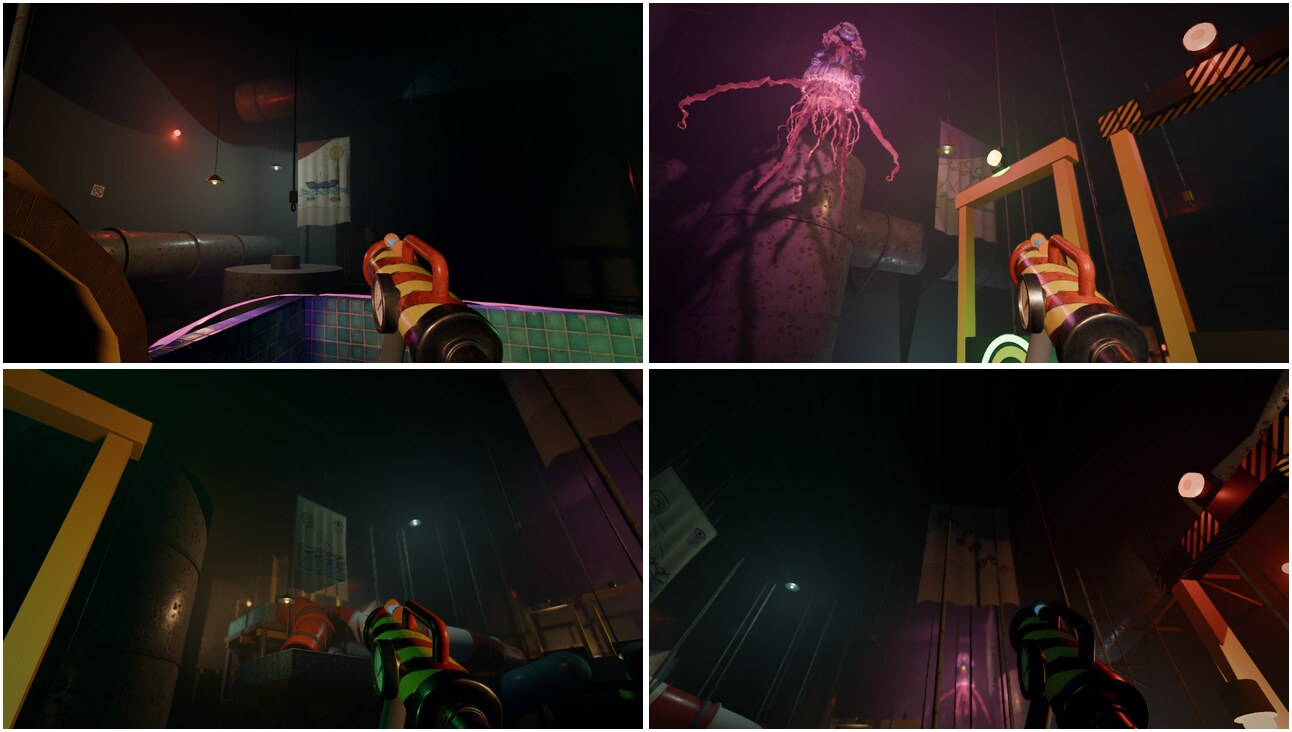
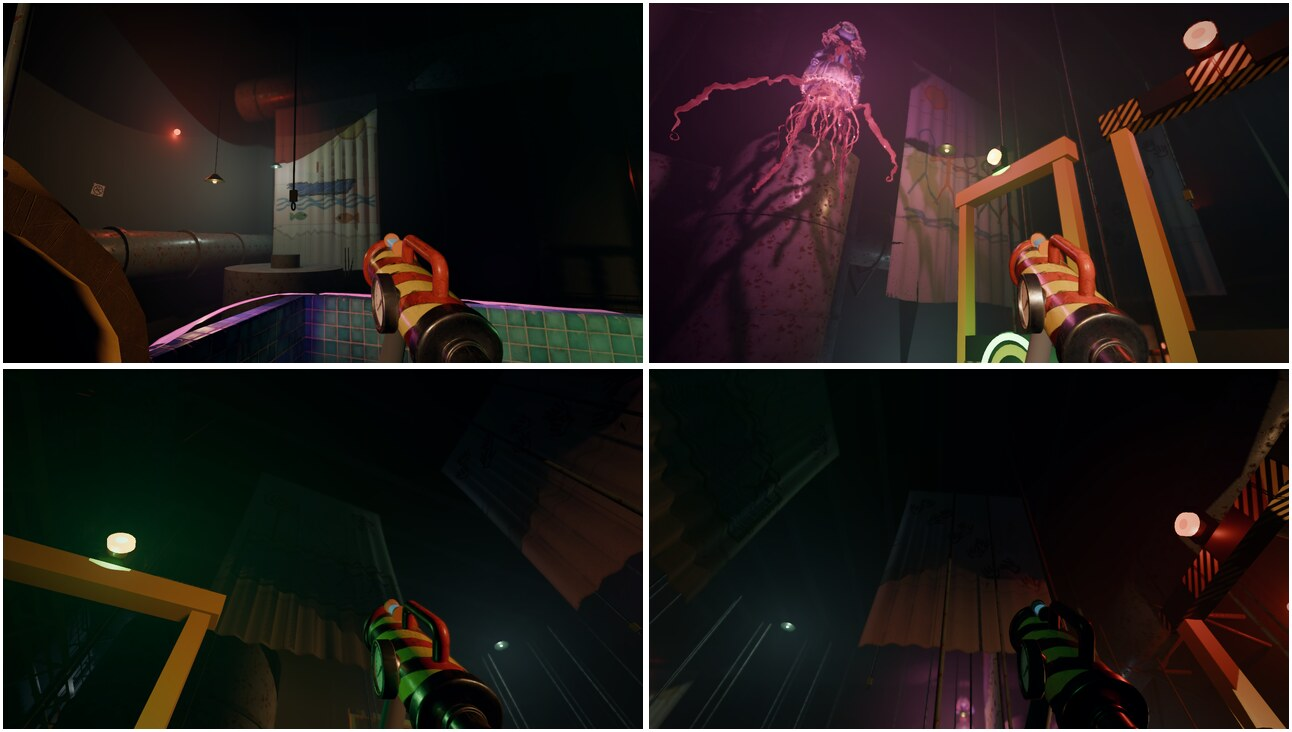
Collaudo stendardi variante A: scatti dalle vasche e da vicino (corde dalle travi, terza corda, cuciture, mollette)
Claude-Session: https://claude.ai/code/session_01CKPshjKrddtekB7nZK4rGD

diff --git a/docs/tecnico/posizionamento/rapporto.md b/docs/tecnico/posizionamento/rapporto.md
@@ -1,6 +1,6 @@
 # Controllo di posizionamento
 
-Scritto da `godot/tests/controllo_posizionamento.gd` il 2026-11-06 14:20:17. Problemi: **sospeso** (niente a meno di 5 cm: né sotto, né una parete, un soffitto o un altro oggetto a cui sia attaccato), **ingombro** (qualcosa di visibile, con o senza collisione, a meno di 10 cm dall'asse del giocatore, fra 0.35 e 2.00 m sopra il pavimento), **compenetrato** e **coperto** (Polaroid, pulsanti, porte, cancelli, oggetti da raccogliere), **compenetra** (due oggetti di scena l'uno dentro l'altro), **estremita_libera** (un tubo o un cavo con un capo che non tocca niente). Come si usa: `LEGGIMI.md` qui accanto.
+Scritto da `godot/tests/controllo_posizionamento.gd` il 2026-11-06 15:40:03. Problemi: **sospeso** (niente a meno di 5 cm: né sotto, né una parete, un soffitto o un altro oggetto a cui sia attaccato), **ingombro** (qualcosa di visibile, con o senza collisione, a meno di 10 cm dall'asse del giocatore, fra 0.35 e 2.00 m sopra il pavimento), **compenetrato** e **coperto** (Polaroid, pulsanti, porte, cancelli, oggetti da raccogliere), **compenetra** (due oggetti di scena l'uno dentro l'altro), **estremita_libera** (un tubo o un cavo con un capo che non tocca niente). Come si usa: `LEGGIMI.md` qui accanto.
 
 Nuovi: 0. Già noti (in `godot/tests/posizionamento_eccezioni.json`): 64. Eccezioni non più trovate: 0.
 
@@ -28,9 +28,9 @@ Nuovi: 0. Già noti (in `godot/tests/posizionamento_eccezioni.json`): 64. Eccezi
 
 | Squadra | Problema | Nodo | Posizione | Dettaglio | Stato |
 |---|---|---|---|---|---|
-| enigmi | compenetra | `Risalita/Fiume/paratia/Mesh_0` | -38.16, -5.40, 117.17 | dentro ci passa Risalita/Fiume/@MeshInstance3D@29446, 5 cm sotto la sua superficie (per esempio in (-38.16, -5.4, 117.17), lo spigolo da (-38.2, -5.4, 117.4) a (-38.13, -5.4, 117.0)) (stato: risalita_arrivo) | voluto: il telaio della chiusa a saracinesca, di traverso alla bocca del ramo, poggia sul bordo delle due sponde e ci entra con le guide, come una paratia vera |
-| enigmi | compenetra | `Risalita/Fiume/paratia4/Mesh_0` | -55.75, -5.40, 93.60 | dentro ci passa Risalita/Fiume/@MeshInstance3D@29446, 3 cm sotto la sua superficie (per esempio in (-55.75, -5.4, 93.6), lo spigolo da (-56.0, -5.4, 93.6) a (-54.4, -5.4, 93.6)) (stato: risalita_arrivo) | voluto: il telaio della chiusa a saracinesca, di traverso alla bocca del ramo, poggia sul bordo delle due sponde e ci entra con le guide, come una paratia vera |
-| enigmi | compenetra | `Risalita/Fiume/paratia5/Mesh_0` | -33.40, -5.40, 64.75 | dentro ci passa Risalita/Fiume/@MeshInstance3D@29446, 3 cm sotto la sua superficie (per esempio in (-33.4, -5.4, 64.75), lo spigolo da (-33.4, -5.4, 65.0) a (-33.4, -5.4, 63.0)) (stato: risalita_arrivo) | voluto: il telaio della chiusa a saracinesca, di traverso alla bocca del ramo, poggia sul bordo delle due sponde e ci entra con le guide, come una paratia vera |
+| enigmi | compenetra | `Risalita/Fiume/paratia/Mesh_0` | -38.16, -5.40, 117.17 | dentro ci passa Risalita/Fiume/@MeshInstance3D@29490, 5 cm sotto la sua superficie (per esempio in (-38.16, -5.4, 117.17), lo spigolo da (-38.2, -5.4, 117.4) a (-38.13, -5.4, 117.0)) (stato: risalita_arrivo) | voluto: il telaio della chiusa a saracinesca, di traverso alla bocca del ramo, poggia sul bordo delle due sponde e ci entra con le guide, come una paratia vera |
+| enigmi | compenetra | `Risalita/Fiume/paratia4/Mesh_0` | -55.75, -5.40, 93.60 | dentro ci passa Risalita/Fiume/@MeshInstance3D@29490, 3 cm sotto la sua superficie (per esempio in (-55.75, -5.4, 93.6), lo spigolo da (-56.0, -5.4, 93.6) a (-54.4, -5.4, 93.6)) (stato: risalita_arrivo) | voluto: il telaio della chiusa a saracinesca, di traverso alla bocca del ramo, poggia sul bordo delle due sponde e ci entra con le guide, come una paratia vera |
+| enigmi | compenetra | `Risalita/Fiume/paratia5/Mesh_0` | -33.40, -5.40, 64.75 | dentro ci passa Risalita/Fiume/@MeshInstance3D@29490, 3 cm sotto la sua superficie (per esempio in (-33.4, -5.4, 64.75), lo spigolo da (-33.4, -5.4, 65.0) a (-33.4, -5.4, 63.0)) (stato: risalita_arrivo) | voluto: il telaio della chiusa a saracinesca, di traverso alla bocca del ramo, poggia sul bordo delle due sponde e ci entra con le guide, come una paratia vera |
 | enigmi | ingombro | `Risalita/ArredoCorridoioFiume/quadro_elettrico` | -5.50, -5.40, 52.50 | nello spazio di chi cammina, all'altezza della testa: a meno di 10 cm dall'asse del giocatore (20 cm sopra 1,2 m), fra 1.15 e 1.83 m sopra il pavimento (2 celle da 25 cm) (pavimento a y -5.40), senza collisione (si attraversa) | voluto: a muro (regola del coordinatore del 23 ottobre): il quadro elettrico del corridoio del fiume è avvitato al muro ovest, sporge 22 cm, fra 1,15 e 1,83 m; non pende nel passaggio; passaggio libero 1,78 m all'altezza della testa (corridoio largo 2 m, di fronte solo l'oblò a filo e le lampade sopra i 2,1 m) (ambienti-1, arredo A+C del 30 ottobre) |
 
 ### sala
@@ -49,21 +49,21 @@ Nuovi: 0. Già noti (in `godot/tests/posizionamento_eccezioni.json`): 64. Eccezi
 
 | Squadra | Problema | Nodo | Posizione | Dettaglio | Stato |
 |---|---|---|---|---|---|
-| da assegnare | compenetra | `Ostacolo_vetrina_484/corallo/Mesh_0` | -62.02, -29.16, 88.12 | il 100% dei suoi vertici è dentro Ostacolo_vetrina_484/@MeshInstance3D@137538 (stato: sottomarino_t0) | voluto: il corallo del diorama sta dentro la teca di vetro della vetrina caduta, appoggiato sulla sabbia del fondo: il vetro è una scatola chiusa e lo contiene tutto (tunnel sottomarino, 24 ottobre) |
-| da assegnare | ingombro | `Approdo/@MeshInstance3D@136825` | -62.00, -27.20, 23.00 | nello spazio di chi cammina, all'altezza del busto: a meno di 10 cm dall'asse del giocatore (20 cm sopra 1,2 m), fra 1.18 e 1.22 m sopra il pavimento (15 celle da 25 cm) (pavimento a y -27.20), con la collisione (ci si sbatte contro) (stato: sottomarino_t0) | voluto: il corrimano della scala dell'approdo, a fianco di chi sale, all'altezza della mano |
-| da assegnare | ingombro | `Approdo/PortelloPerno/@MeshInstance3D@136844` | -57.50, -27.00, 21.50 | nello spazio di chi cammina, all'altezza della testa: a meno di 10 cm dall'asse del giocatore (20 cm sopra 1,2 m), fra 1.03 e 1.57 m sopra il pavimento (3 celle da 25 cm) (pavimento a y -27.00), senza collisione (si attraversa) (stato: sottomarino_t0) | voluto: il battente del portello aperto dentro la camera stagna (è la porta stessa): il giocatore entra e lo chiude col volantino, poi la fine (24 ottobre, scelta 11A) |
-| da assegnare | ingombro | `Galleria_205/@MeshInstance3D@137442` | -0.50, -30.00, 65.25 | nello spazio di chi cammina, all'altezza della testa: a meno di 10 cm dall'asse del giocatore (20 cm sopra 1,2 m), fra 1.27 e 1.57 m sopra il pavimento (5 celle da 25 cm) (pavimento a y -30.00), con la collisione (ci si sbatte contro) (stato: sottomarino_t0) | voluto: la fascia gialla e nera sopra la bocca della galleria di servizio bassa (1,25 m), passaggio basso voluto dall'utente (24 ottobre, scelta 4C): ci si passa accovacciati |
-| da assegnare | ingombro | `Galleria_205/@MeshInstance3D@137444` | 1.75, -30.00, 55.25 | nello spazio di chi cammina, all'altezza della testa: a meno di 10 cm dall'asse del giocatore (20 cm sopra 1,2 m), fra 1.27 e 1.57 m sopra il pavimento (4 celle da 25 cm) (pavimento a y -30.00), con la collisione (ci si sbatte contro) (stato: sottomarino_t0) | voluto: la fascia gialla e nera sopra la bocca della galleria di servizio bassa (1,25 m), passaggio basso voluto dall'utente (24 ottobre, scelta 4C): ci si passa accovacciati |
-| da assegnare | ingombro | `Galleria_205/@MeshInstance3D@137445` | 1.75, -30.00, 55.25 | nello spazio di chi cammina, all'altezza della testa: a meno di 10 cm dall'asse del giocatore (20 cm sopra 1,2 m), fra 1.27 e 1.57 m sopra il pavimento (4 celle da 25 cm) (pavimento a y -30.00), con la collisione (ci si sbatte contro) (stato: sottomarino_t0) | voluto: la fascia gialla e nera sopra la bocca della galleria di servizio bassa (1,25 m), passaggio basso voluto dall'utente (24 ottobre, scelta 4C): ci si passa accovacciati |
-| da assegnare | ingombro | `Galleria_205/@MeshInstance3D@137448` | 0.00, -30.00, 60.75 | nello spazio di chi cammina, all'altezza del busto: a meno di 10 cm dall'asse del giocatore (20 cm sopra 1,2 m), fra 1.21 e 1.25 m sopra il pavimento (8 celle da 25 cm) (pavimento a y -30.00), con la collisione (ci si sbatte contro) (stato: sottomarino_t0) | voluto: la galleria di servizio bassa (1,25 m), passaggio basso voluto dall'utente (24 ottobre, scelta 4C): ci si passa accovacciati; i casi sono il soffitto basso, la fascia gialla e nera e le plafoniere sopra le bocche e dentro |
-| da assegnare | ingombro | `Galleria_205/@MeshInstance3D@137450` | 0.50, -30.00, 58.00 | nello spazio di chi cammina, all'altezza del busto: a meno di 10 cm dall'asse del giocatore (20 cm sopra 1,2 m), fra 1.21 e 1.25 m sopra il pavimento (11 celle da 25 cm) (pavimento a y -30.00), con la collisione (ci si sbatte contro) (stato: sottomarino_t0) | voluto: la galleria di servizio bassa (1,25 m), passaggio basso voluto dall'utente (24 ottobre, scelta 4C): ci si passa accovacciati; i casi sono il soffitto basso, la fascia gialla e nera e le plafoniere sopra le bocche e dentro |
+| da assegnare | compenetra | `Ostacolo_vetrina_484/corallo/Mesh_0` | -62.02, -29.16, 88.12 | il 100% dei suoi vertici è dentro Ostacolo_vetrina_484/@MeshInstance3D@137714 (stato: sottomarino_t0) | voluto: il corallo del diorama sta dentro la teca di vetro della vetrina caduta, appoggiato sulla sabbia del fondo: il vetro è una scatola chiusa e lo contiene tutto (tunnel sottomarino, 24 ottobre) |
+| da assegnare | ingombro | `Approdo/@MeshInstance3D@137001` | -62.00, -27.20, 23.00 | nello spazio di chi cammina, all'altezza del busto: a meno di 10 cm dall'asse del giocatore (20 cm sopra 1,2 m), fra 1.18 e 1.22 m sopra il pavimento (15 celle da 25 cm) (pavimento a y -27.20), con la collisione (ci si sbatte contro) (stato: sottomarino_t0) | voluto: il corrimano della scala dell'approdo, a fianco di chi sale, all'altezza della mano |
+| da assegnare | ingombro | `Approdo/PortelloPerno/@MeshInstance3D@137020` | -57.50, -27.00, 21.50 | nello spazio di chi cammina, all'altezza della testa: a meno di 10 cm dall'asse del giocatore (20 cm sopra 1,2 m), fra 1.03 e 1.57 m sopra il pavimento (3 celle da 25 cm) (pavimento a y -27.00), senza collisione (si attraversa) (stato: sottomarino_t0) | voluto: il battente del portello aperto dentro la camera stagna (è la porta stessa): il giocatore entra e lo chiude col volantino, poi la fine (24 ottobre, scelta 11A) |
+| da assegnare | ingombro | `Galleria_205/@MeshInstance3D@137618` | -0.50, -30.00, 65.25 | nello spazio di chi cammina, all'altezza della testa: a meno di 10 cm dall'asse del giocatore (20 cm sopra 1,2 m), fra 1.27 e 1.57 m sopra il pavimento (5 celle da 25 cm) (pavimento a y -30.00), con la collisione (ci si sbatte contro) (stato: sottomarino_t0) | voluto: la fascia gialla e nera sopra la bocca della galleria di servizio bassa (1,25 m), passaggio basso voluto dall'utente (24 ottobre, scelta 4C): ci si passa accovacciati |
+| da assegnare | ingombro | `Galleria_205/@MeshInstance3D@137620` | 1.75, -30.00, 55.25 | nello spazio di chi cammina, all'altezza della testa: a meno di 10 cm dall'asse del giocatore (20 cm sopra 1,2 m), fra 1.27 e 1.57 m sopra il pavimento (4 celle da 25 cm) (pavimento a y -30.00), con la collisione (ci si sbatte contro) (stato: sottomarino_t0) | voluto: la fascia gialla e nera sopra la bocca della galleria di servizio bassa (1,25 m), passaggio basso voluto dall'utente (24 ottobre, scelta 4C): ci si passa accovacciati |
+| da assegnare | ingombro | `Galleria_205/@MeshInstance3D@137621` | 1.75, -30.00, 55.25 | nello spazio di chi cammina, all'altezza della testa: a meno di 10 cm dall'asse del giocatore (20 cm sopra 1,2 m), fra 1.27 e 1.57 m sopra il pavimento (4 celle da 25 cm) (pavimento a y -30.00), con la collisione (ci si sbatte contro) (stato: sottomarino_t0) | voluto: la fascia gialla e nera sopra la bocca della galleria di servizio bassa (1,25 m), passaggio basso voluto dall'utente (24 ottobre, scelta 4C): ci si passa accovacciati |
+| da assegnare | ingombro | `Galleria_205/@MeshInstance3D@137624` | 0.00, -30.00, 60.75 | nello spazio di chi cammina, all'altezza del busto: a meno di 10 cm dall'asse del giocatore (20 cm sopra 1,2 m), fra 1.21 e 1.25 m sopra il pavimento (8 celle da 25 cm) (pavimento a y -30.00), con la collisione (ci si sbatte contro) (stato: sottomarino_t0) | voluto: la galleria di servizio bassa (1,25 m), passaggio basso voluto dall'utente (24 ottobre, scelta 4C): ci si passa accovacciati; i casi sono il soffitto basso, la fascia gialla e nera e le plafoniere sopra le bocche e dentro |
+| da assegnare | ingombro | `Galleria_205/@MeshInstance3D@137626` | 0.50, -30.00, 58.00 | nello spazio di chi cammina, all'altezza del busto: a meno di 10 cm dall'asse del giocatore (20 cm sopra 1,2 m), fra 1.21 e 1.25 m sopra il pavimento (11 celle da 25 cm) (pavimento a y -30.00), con la collisione (ci si sbatte contro) (stato: sottomarino_t0) | voluto: la galleria di servizio bassa (1,25 m), passaggio basso voluto dall'utente (24 ottobre, scelta 4C): ci si passa accovacciati; i casi sono il soffitto basso, la fascia gialla e nera e le plafoniere sopra le bocche e dentro |
 | da assegnare | ingombro | `Galleria_205/Fascia` | -0.50, -30.00, 65.25 | nello spazio di chi cammina, all'altezza della testa: a meno di 10 cm dall'asse del giocatore (20 cm sopra 1,2 m), fra 1.27 e 1.57 m sopra il pavimento (5 celle da 25 cm) (pavimento a y -30.00), con la collisione (ci si sbatte contro) (stato: sottomarino_t0) | voluto: la fascia gialla e nera sopra la bocca della galleria di servizio bassa (1,25 m), passaggio basso voluto dall'utente (24 ottobre, scelta 4C): ci si passa accovacciati |
 | da assegnare | ingombro | `Galleria_205/struttura_mosaico` | 1.75, -30.00, 55.25 | nello spazio di chi cammina, all'altezza del busto: a meno di 10 cm dall'asse del giocatore (20 cm sopra 1,2 m), fra 0.35 e 1.25 m sopra il pavimento (173 celle da 25 cm) (pavimento a y -30.00), con la collisione (ci si sbatte contro) (stato: sottomarino_t0) | voluto: la galleria di servizio bassa (1,25 m), passaggio basso voluto dall'utente (24 ottobre, scelta 4C): ci si passa accovacciati; i casi sono il soffitto basso, la fascia gialla e nera e le plafoniere sopra le bocche e dentro |
-| da assegnare | ingombro | `Galleria_425/@MeshInstance3D@137513` | -22.75, -30.00, 117.50 | nello spazio di chi cammina, all'altezza della testa: a meno di 10 cm dall'asse del giocatore (20 cm sopra 1,2 m), fra 1.27 e 1.57 m sopra il pavimento (11 celle da 25 cm) (pavimento a y -30.00), con la collisione (ci si sbatte contro) (stato: sottomarino_t0) | voluto: la fascia gialla e nera sopra la bocca della galleria di servizio bassa (1,25 m), passaggio basso voluto dall'utente (24 ottobre, scelta 4C): ci si passa accovacciati |
-| da assegnare | ingombro | `Galleria_425/@MeshInstance3D@137515` | -37.00, -30.00, 128.50 | nello spazio di chi cammina, all'altezza della testa: a meno di 10 cm dall'asse del giocatore (20 cm sopra 1,2 m), fra 1.27 e 1.57 m sopra il pavimento (9 celle da 25 cm) (pavimento a y -30.00), con la collisione (ci si sbatte contro) (stato: sottomarino_t0) | voluto: la fascia gialla e nera sopra la bocca della galleria di servizio bassa (1,25 m), passaggio basso voluto dall'utente (24 ottobre, scelta 4C): ci si passa accovacciati |
-| da assegnare | ingombro | `Galleria_425/@MeshInstance3D@137516` | -37.00, -30.00, 128.50 | nello spazio di chi cammina, all'altezza della testa: a meno di 10 cm dall'asse del giocatore (20 cm sopra 1,2 m), fra 1.27 e 1.57 m sopra il pavimento (10 celle da 25 cm) (pavimento a y -30.00), con la collisione (ci si sbatte contro) (stato: sottomarino_t0) | voluto: la fascia gialla e nera sopra la bocca della galleria di servizio bassa (1,25 m), passaggio basso voluto dall'utente (24 ottobre, scelta 4C): ci si passa accovacciati |
-| da assegnare | ingombro | `Galleria_425/@MeshInstance3D@137519` | -26.00, -30.00, 123.75 | nello spazio di chi cammina, all'altezza del busto: a meno di 10 cm dall'asse del giocatore (20 cm sopra 1,2 m), fra 1.21 e 1.25 m sopra il pavimento (10 celle da 25 cm) (pavimento a y -30.00), con la collisione (ci si sbatte contro) (stato: sottomarino_t0) | voluto: la galleria di servizio bassa (1,25 m), passaggio basso voluto dall'utente (24 ottobre, scelta 4C): ci si passa accovacciati; i casi sono il soffitto basso, la fascia gialla e nera e le plafoniere sopra le bocche e dentro |
-| da assegnare | ingombro | `Galleria_425/@MeshInstance3D@137521` | -30.75, -30.00, 127.25 | nello spazio di chi cammina, all'altezza del busto: a meno di 10 cm dall'asse del giocatore (20 cm sopra 1,2 m), fra 1.21 e 1.25 m sopra il pavimento (9 celle da 25 cm) (pavimento a y -30.00), con la collisione (ci si sbatte contro) (stato: sottomarino_t0) | voluto: la galleria di servizio bassa (1,25 m), passaggio basso voluto dall'utente (24 ottobre, scelta 4C): ci si passa accovacciati; i casi sono il soffitto basso, la fascia gialla e nera e le plafoniere sopra le bocche e dentro |
+| da assegnare | ingombro | `Galleria_425/@MeshInstance3D@137689` | -22.75, -30.00, 117.50 | nello spazio di chi cammina, all'altezza della testa: a meno di 10 cm dall'asse del giocatore (20 cm sopra 1,2 m), fra 1.27 e 1.57 m sopra il pavimento (11 celle da 25 cm) (pavimento a y -30.00), con la collisione (ci si sbatte contro) (stato: sottomarino_t0) | voluto: la fascia gialla e nera sopra la bocca della galleria di servizio bassa (1,25 m), passaggio basso voluto dall'utente (24 ottobre, scelta 4C): ci si passa accovacciati |
+| da assegnare | ingombro | `Galleria_425/@MeshInstance3D@137691` | -37.00, -30.00, 128.50 | nello spazio di chi cammina, all'altezza della testa: a meno di 10 cm dall'asse del giocatore (20 cm sopra 1,2 m), fra 1.27 e 1.57 m sopra il pavimento (9 celle da 25 cm) (pavimento a y -30.00), con la collisione (ci si sbatte contro) (stato: sottomarino_t0) | voluto: la fascia gialla e nera sopra la bocca della galleria di servizio bassa (1,25 m), passaggio basso voluto dall'utente (24 ottobre, scelta 4C): ci si passa accovacciati |
+| da assegnare | ingombro | `Galleria_425/@MeshInstance3D@137692` | -37.00, -30.00, 128.50 | nello spazio di chi cammina, all'altezza della testa: a meno di 10 cm dall'asse del giocatore (20 cm sopra 1,2 m), fra 1.27 e 1.57 m sopra il pavimento (10 celle da 25 cm) (pavimento a y -30.00), con la collisione (ci si sbatte contro) (stato: sottomarino_t0) | voluto: la fascia gialla e nera sopra la bocca della galleria di servizio bassa (1,25 m), passaggio basso voluto dall'utente (24 ottobre, scelta 4C): ci si passa accovacciati |
+| da assegnare | ingombro | `Galleria_425/@MeshInstance3D@137695` | -26.00, -30.00, 123.75 | nello spazio di chi cammina, all'altezza del busto: a meno di 10 cm dall'asse del giocatore (20 cm sopra 1,2 m), fra 1.21 e 1.25 m sopra il pavimento (10 celle da 25 cm) (pavimento a y -30.00), con la collisione (ci si sbatte contro) (stato: sottomarino_t0) | voluto: la galleria di servizio bassa (1,25 m), passaggio basso voluto dall'utente (24 ottobre, scelta 4C): ci si passa accovacciati; i casi sono il soffitto basso, la fascia gialla e nera e le plafoniere sopra le bocche e dentro |
+| da assegnare | ingombro | `Galleria_425/@MeshInstance3D@137697` | -30.75, -30.00, 127.25 | nello spazio di chi cammina, all'altezza del busto: a meno di 10 cm dall'asse del giocatore (20 cm sopra 1,2 m), fra 1.21 e 1.25 m sopra il pavimento (9 celle da 25 cm) (pavimento a y -30.00), con la collisione (ci si sbatte contro) (stato: sottomarino_t0) | voluto: la galleria di servizio bassa (1,25 m), passaggio basso voluto dall'utente (24 ottobre, scelta 4C): ci si passa accovacciati; i casi sono il soffitto basso, la fascia gialla e nera e le plafoniere sopra le bocche e dentro |
 | da assegnare | ingombro | `Galleria_425/Fascia` | -22.75, -30.00, 117.50 | nello spazio di chi cammina, all'altezza della testa: a meno di 10 cm dall'asse del giocatore (20 cm sopra 1,2 m), fra 1.27 e 1.57 m sopra il pavimento (10 celle da 25 cm) (pavimento a y -30.00), con la collisione (ci si sbatte contro) (stato: sottomarino_t0) | voluto: la fascia gialla e nera sopra la bocca della galleria di servizio bassa (1,25 m), passaggio basso voluto dall'utente (24 ottobre, scelta 4C): ci si passa accovacciati |
 | da assegnare | ingombro | `Galleria_425/struttura_mosaico` | -37.00, -30.00, 128.50 | nello spazio di chi cammina, all'altezza del busto: a meno di 10 cm dall'asse del giocatore (20 cm sopra 1,2 m), fra 0.35 e 1.25 m sopra il pavimento (367 celle da 25 cm) (pavimento a y -30.00), con la collisione (ci si sbatte contro) (stato: sottomarino_t0) | voluto: la galleria di servizio bassa (1,25 m), passaggio basso voluto dall'utente (24 ottobre, scelta 4C): ci si passa accovacciati; i casi sono il soffitto basso, la fascia gialla e nera e le plafoniere sopra le bocche e dentro |
 | da assegnare | ingombro | `Tunnel_192/struttura_mosaico` | -1.00, -30.00, 64.75 | nello spazio di chi cammina, all'altezza della testa: a meno di 10 cm dall'asse del giocatore (20 cm sopra 1,2 m), fra 0.35 e 2.00 m sopra il pavimento (10 celle da 25 cm) (pavimento a y -30.00), con la collisione (ci si sbatte contro) (stato: sottomarino_t0) | voluto: la galleria di servizio bassa (1,25 m), passaggio basso voluto dall'utente (24 ottobre, scelta 4C): ci si passa accovacciati; i casi sono il soffitto basso, la fascia gialla e nera e le plafoniere sopra le bocche e dentro |
@@ -165,7 +165,7 @@ Per ogni giro, quanti oggetti di scena si sono controllati in ogni parte. Una pa
 | sala_torre · inizio | `SalaInseguimento/InseguimentoProp` | 4 |
 | sala_torre · inizio | `SalaInseguimento/InseguimentoTubi` | 7 |
 | sala_torre · inizio | `SalaInseguimento/Luci` | 71 |
-| sala_torre · inizio | `SalaInseguimento/Stendardi` | 44 |
+| sala_torre · inizio | `SalaInseguimento/Stendardi` | 66 |
 | sala_torre · inizio | `TorreProp` | 23 |
 | sala_torre · inizio | `TorreScivoli` | 20 |
 | sala_principale · interni_dopo | `Interni/Ambienti` | 180 |
@@ -212,7 +212,7 @@ Per ogni giro, quanti oggetti di scena si sono controllati in ogni parte. Una pa
 | sala_torre · inseguimento_dopo | `SalaInseguimento/InseguimentoProp` | 4 |
 | sala_torre · inseguimento_dopo | `SalaInseguimento/InseguimentoTubi` | 7 |
 | sala_torre · inseguimento_dopo | `SalaInseguimento/Luci` | 71 |
-| sala_torre · inseguimento_dopo | `SalaInseguimento/Stendardi` | 44 |
+| sala_torre · inseguimento_dopo | `SalaInseguimento/Stendardi` | 66 |
 | sala_torre · torre_oblo | `ObloLei` | 4 |
 | sala_torre · torre_oblo | `ObloLei/Lei` | 9 |
 | sala_principale · piscina_vuota | `Piscina/EnigmaGiocattoli` | 9 |
@@ -488,15 +488,15 @@ Le parti nascoste nel giro iniziale (compaiono più avanti, o sono le versioni s
 Senza le trasformazioni nel meta "trasformazioni" del nodo o della risorsa MultiMesh (vedi `_espandi_multimesh`):
 
 - `sala_principale · SalaSottomarino/Approdo/Telaio/Rivetti`
-- `sala_principale · SalaSottomarino/Approdo/Telaio/@MultiMeshInstance3D@125906`
+- `sala_principale · SalaSottomarino/Approdo/Telaio/@MultiMeshInstance3D@126038`
 - `sala_principale · SalaSottomarino/Approdo/PortelloPerno/Rivetti`
 - `sala_sottomarino · Approdo/Telaio/Rivetti`
-- `sala_sottomarino · Approdo/Telaio/@MultiMeshInstance3D@136839`
+- `sala_sottomarino · Approdo/Telaio/@MultiMeshInstance3D@137015`
 - `sala_sottomarino · Approdo/PortelloPerno/Rivetti`
 - `sala_sottomarino · Approdo/Telaio/Rivetti`
-- `sala_sottomarino · Approdo/Telaio/@MultiMeshInstance3D@140537`
+- `sala_sottomarino · Approdo/Telaio/@MultiMeshInstance3D@140713`
 - `sala_sottomarino · Approdo/PortelloPerno/Rivetti`
 - `sala_sottomarino · Approdo/Telaio/Rivetti`
-- `sala_sottomarino · Approdo/Telaio/@MultiMeshInstance3D@144235`
+- `sala_sottomarino · Approdo/Telaio/@MultiMeshInstance3D@144411`
 - `sala_sottomarino · Approdo/PortelloPerno/Rivetti`
 
